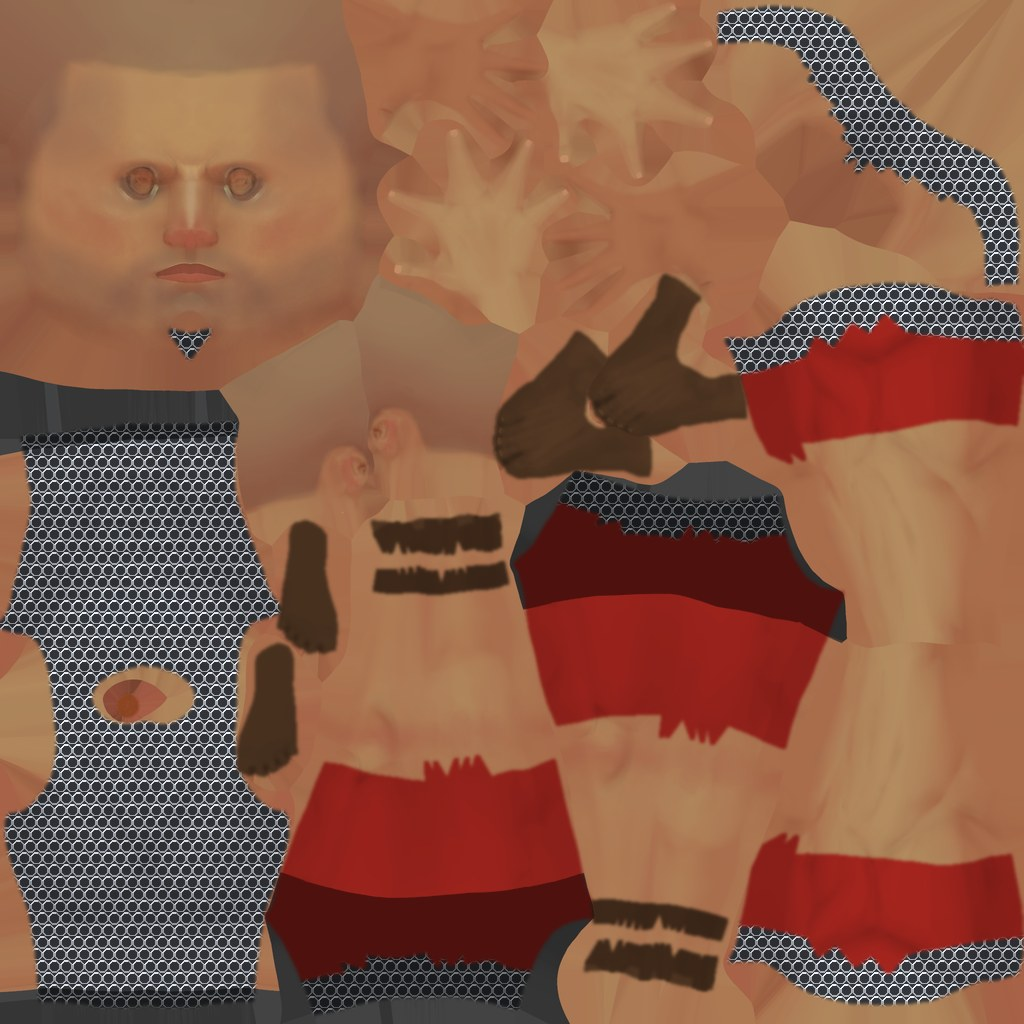
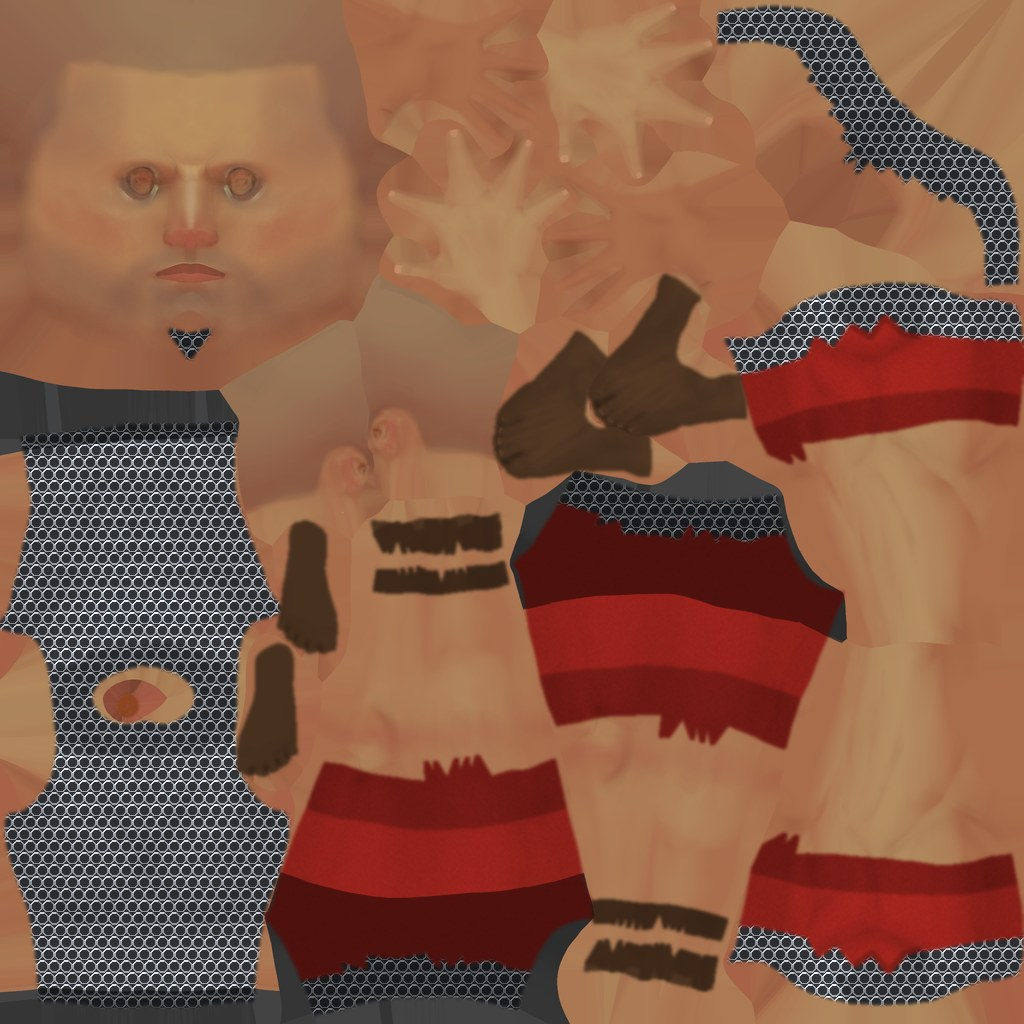
Waist twist shared across spine bones, belts/pugio, softer outfit textures
Claude-Session: https://claude.ai/code/session_01ELAARJfiSJ5tJReoBhHHsc

diff --git a/src/rig.js b/src/rig.js
@@ -110,7 +110,7 @@ export function makeRig(THREE, cloneSkinned, assets, { outfit = 'roman_red', hai
   return rig;
 }
 
-export const LEG_TWIST_MAX = .5;
+export const LEG_TWIST_MAX = .45;
 /**
  * Pure: how far the legs turn toward the travel direction (radians, + = model's left) and whether to play the walk backwards.
  * Capped and faded in with speed; `wasBackward` gives hysteresis so strafing jitter doesn't flip the legs.
@@ -185,14 +185,18 @@ export function driveRig(THREE, rig, s, dt) {
   }
   blendLayer(rig, 'lo', lo, dt); blendLayer(rig, 'up', up, dt); if (rig.shielded) blendLayer(rig, 'sh', sh, dt);
   // undo last frame's counter-twist first: the mixer skips bones whose animated value did not change
-  // (a held guard pose), so a twist left on the bone would add up frame after frame and spin the chest
-  const sp1 = rig.bones.spine_01;
-  if (rig.spineBase && sp1) { sp1.quaternion.copy(rig.spineBase); rig.spineBase = null; }
+  // (a held guard pose), so a twist left on a bone would add up frame after frame and spin the chest
+  const SP = ['spine_01', 'spine_02', 'spine_03'].map(n => rig.bones[n]).filter(Boolean);
+  if (rig.spineBase) { SP.forEach((b, i) => b.quaternion.copy(rig.spineBase[i])); rig.spineBase = null; }
   rig.mixer.update(dt);
-  // legs turn toward travel, spine turns back so the chest stays on the target
+  // legs turn toward travel; the spine turns back so the chest stays on the target. The turn is shared by
+  // all three spine bones (a single bone wrings the waist like a candy wrapper)
   if (Math.abs(rig.side) > .01) {
     rig.body.rotation.y = rig.side;
-    if (sp1) { rig.spineBase = (rig._sb || (rig._sb = sp1.quaternion.clone())).copy(sp1.quaternion); twistWorldY(THREE, sp1, -rig.side); }
+    if (SP.length) {
+      rig.spineBase = SP.map((b, i) => (rig._sb?.[i] || (rig._sb = rig._sb || [], rig._sb[i] = b.quaternion.clone())).copy(b.quaternion));
+      SP.forEach(b => twistWorldY(THREE, b, -rig.side / SP.length));
+    }
   } else rig.body.rotation.y = 0;
 }
 

diff --git a/src/game.js b/src/game.js
@@ -508,8 +508,20 @@ function rigSoldier(kind, look = null) {
   for (const o of plates) { o.parent.remove(o); o.position.set(0, 1.33, o.name === 'pectorale' ? .14 : -.17); o.scale.set(.9, .9, 1); rig.attach('spine_03', o); }
   const gr = []; p.root.traverse(o => { if (o.name === 'greave') gr.push(o); });
   gr.forEach((o, i) => { o.parent.remove(o); o.position.set(i ? -.114 : .114, .33, -.035); o.scale.set(.82, 1.05, .82); rig.attach(i ? 'calf_r' : 'calf_l', o); });
+  // leather belt with a bronze buckle (a pugio on the Romans' left hip), tied to the waist bone so it turns with the body
+  const bMat = MAT('leather'), gMat = MAT('iron', { metalness: .8, roughness: .45 }), sMat = MAT('leather');
+  bMat.color.setHex(lus ? 0x4a3524 : 0x3a2616); gMat.color.setHex(lus ? 0x8a6d3b : 0xb8893c); sMat.color.setHex(0x2c1c10);
+  const belt = new THREE.Mesh(new THREE.TorusGeometry(1, .02, 6, 32).rotateX(Math.PI / 2).scale(.18, 1, .142), bMat); belt.position.set(0, 1.0, -.028);
+  const buckle = new THREE.Mesh(new THREE.BoxGeometry(.045, .05, .012), gMat); buckle.position.set(0, 1.0, .118);
+  const bg = new THREE.Group(); bg.add(belt, buckle);
+  if (!lus && kind !== 'velite') {
+    const sheath = new THREE.Mesh(new THREE.BoxGeometry(.035, .2, .02), sMat); sheath.position.set(.14, .9, .06); sheath.rotation.z = -.12;
+    const hilt = new THREE.Mesh(new THREE.CylinderGeometry(.012, .012, .07, 6), gMat); hilt.position.set(.15, 1.04, .06); bg.add(sheath, hilt);
+  }
+  bg.traverse(o => { if (o.isMesh) { o.castShadow = true; } });
+  rig.attach('spine_01', bg);
   Object.assign(rig.root.userData, ud);
-  const mats = [...new Set([...rig.mats, ...p.mats])];
+  const mats = [...new Set([...rig.mats, ...p.mats, bMat, gMat, sMat])];
   return { root: rig.root, rig, mats, weapon: wpn };
 }
 const soldier = (kind, look) => { const m = chars ? rigSoldier(kind, look) : makeSoldier(kind); if (look) m.root.scale.setScalar(look.scale); return m; };

diff --git a/tools/paint-outfits.py b/tools/paint-outfits.py
@@ -13,7 +13,7 @@ def acc(i):
     return np.frombuffer(b, dtype=dt, count=a['count'] * n, offset=v.get('byteOffset', 0) + a.get('byteOffset', 0)).reshape(a['count'], n)
 prim = next(p for m in j['meshes'] for p in m['primitives'] if j['materials'][p['material']]['name'] == 'MI_Superhero_Male')
 P = acc(prim['attributes']['POSITION']); UV = acc(prim['attributes']['TEXCOORD_0']); I = acc(prim['indices']).reshape(-1, 3)
-masks = {k: Image.new('L', (S, S), 0) for k in ('upper', 'lower', 'sleeve', 'shoe', 'strap')}
+masks = {k: Image.new('L', (S, S), 0) for k in ('upper', 'lower', 'sleeve', 'shoe', 'strap', 'trim')}
 draw = {k: ImageDraw.Draw(m) for k, m in masks.items()}
 for tri in I:
     c = P[tri].mean(0); x, y = abs(c[0]), c[1]
@@ -23,10 +23,12 @@ for tri in I:
     elif .2 <= x < .4 and y > 1.28: k = 'sleeve'          # short sleeves
     elif y < .095 and x < .3: k = 'shoe'                  # closed leather shoe
     elif (.095 <= y < .125 or .19 <= y < .215) and x < .3: k = 'strap'  # ankle cuff and a thong tied above it
+    trim = (k == 'lower' and y < .7) or (k == 'sleeve' and x > .34) or (k == 'upper' and y > 1.5)   # hem, cuffs, neckline
     if not k: continue
     uv = UV[tri]
     if np.ptp(uv[:, 0]) > .3 or np.ptp(uv[:, 1]) > .3: continue  # seam-spanning triangle
     draw[k].polygon([(u * S, v * S) for u, v in uv], fill=255)
+    if trim: draw['trim'].polygon([(u * S, v * S) for u, v in uv], fill=255)
 for k in masks: masks[k] = masks[k].filter(ImageFilter.MaxFilter(5)).filter(ImageFilter.GaussianBlur(1.5))
 skin = Image.open(SRC + '/T_Superhero_Male_Dark.png').convert('RGB').resize((S, S), Image.LANCZOS)
 lum = np.asarray(skin.convert('L'), np.float32) / 255; shade = np.clip(lum / max(1e-3, np.median(lum)), .55, 1.35)[..., None]
@@ -47,13 +49,19 @@ OUTFITS = {   # (upper, lower, sleeve) colours, or 'mail'
   'lusitano_c':  ((150, 104, 44), (150, 104, 44), (150, 104, 44)),   # ochre wool tunic
   'lusitano_d':  ((58, 78, 56), (96, 84, 62), (58, 78, 56)),         # green tunic over undyed wool
 }
+rng = np.random.default_rng(7)
+yy, xx = np.mgrid[0:S, 0:S]
+noise = np.asarray(Image.fromarray((rng.standard_normal((S // 2, S // 2)) * 40 + 128).clip(0, 255).astype(np.uint8)).resize((S, S), Image.BICUBIC), np.float32) / 255 - .5
+weave = (1 + .10 * noise)[..., None].astype(np.float32)   # soft mottling of dyed wool, no hard stripes (they alias)
 base = np.asarray(skin, np.float32)
 for name, cols in OUTFITS.items():
     img = base.copy()
     for k, col in zip(('upper', 'lower', 'sleeve'), cols):
         m = np.asarray(masks[k], np.float32)[..., None] / 255
-        cloth = mail * shade if col == 'mail' else np.array(col, np.float32) * shade
+        cloth = mail * shade if col == 'mail' else np.array(col, np.float32) * shade * weave
         img = img * (1 - m) + cloth * m
+    tm = np.asarray(masks['trim'], np.float32)[..., None] / 255       # darker hem / cuffs / neckline, with a stitch line
+    img = img * (1 - tm * .22)
     for k, col in (('shoe', (74, 50, 32)), ('strap', (58, 38, 24))):
         m = np.asarray(masks[k], np.float32)[..., None] / 255
         img = img * (1 - m) + np.array(col, np.float32) * np.clip(shade, .7, 1.25) * m
